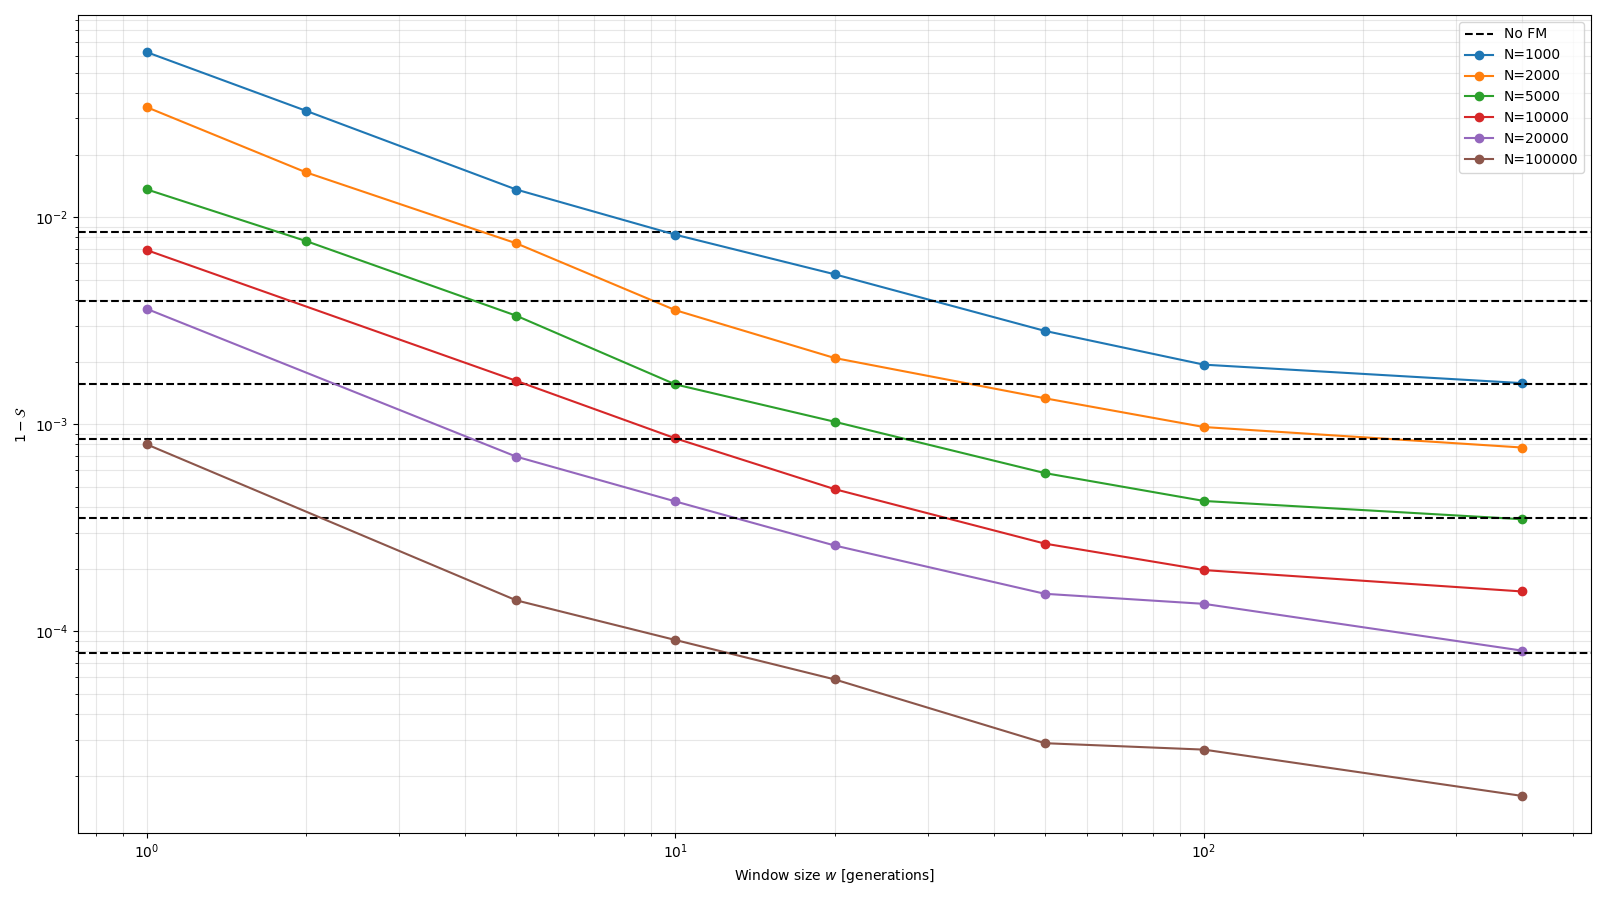
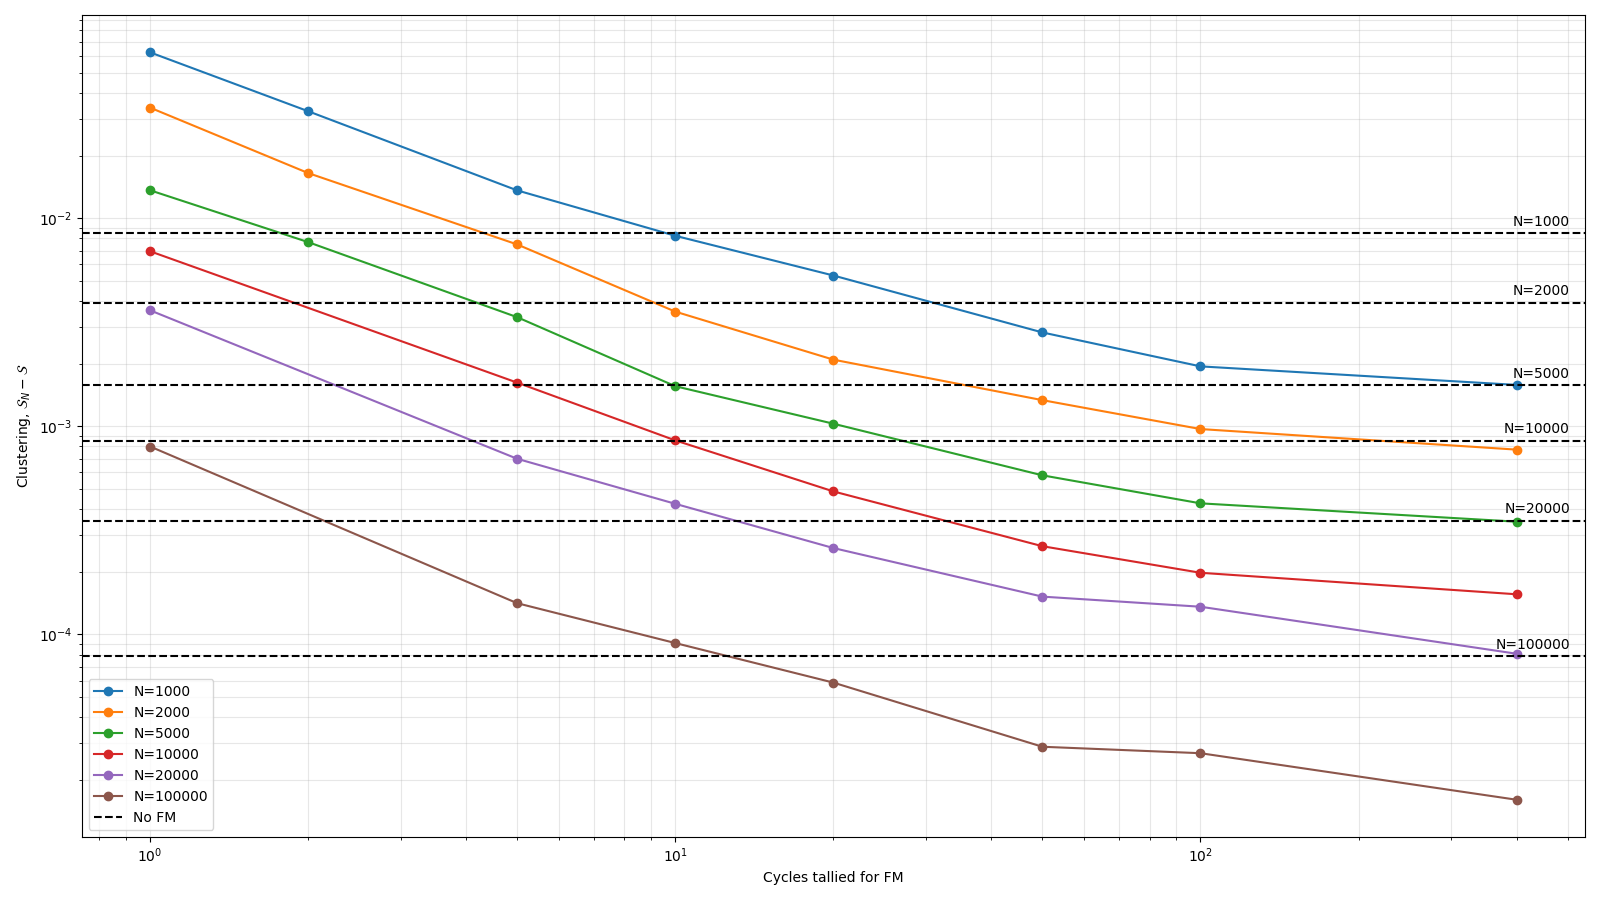
data

diff --git a/entrBins.py b/entrBins.py
@@ -1,0 +1,68 @@
+# all have L100 w50 skip0 noFM5 S100
+
+import numpy as np
+import matplotlib.pyplot as plt
+from scipy.stats import binom
+
+n = [1000, 10000, 100000]
+
+
+b = np.array([2, 3, 4, 6, 8, 10, 15, 20, 30, 60, 100])
+
+
+def SanalyticHom_stable(N, B):
+    k = np.arange(1, N + 1)
+
+    # P(K=k) where K ~ BinomPMF(N, 1/B)
+    probs = binom.pmf(k, N, 1 / B)
+
+    return np.log2(N) - (B / N) * np.sum(probs * k * np.log2(k))
+
+# 6.493253953768844+-0.0003469715959181644
+# 6.567513145454545+-0.00024629629258240136 # 2000
+# 6.6288142894736835+-0.00010668500990982978
+# 6.642292329113924+-2.4781385897995025e-05
+noFM = np.array([
+    6.493253953768844,
+    6.6288142894736835,
+    6.642292329113924
+])
+# 20000
+# 2000n 10000 # 6.576377477777777+-0.0001953708865880469 , 6.5840786636363635+-0.0001315195631534916 , 6.586652693939394+-0.00011226769903014101 , 6.589689091919191+-0.00010218955721084907 , 6.5900224939393945+-0.00010247381086713732 , 6.590621976767676+-0.00010418634246804418 , 6.589436630303031+-0.00011795029981303248 , 6.585733705050505+-0.00014733408617750342 , 6.587726058585859+-0.00013964924629004691 , 6.585860618181818+-0.0001511609137577007, 6.587007182828284+-0.00013716146647794415
+# 2000
+# 400
+FM = np.array([
+ [6.508815697487438, 6.524401924623115, 6.528137327638191, 6.5343513959799, 6.534068005527638, 6.535457009045226, 6.530950553266331, 6.532020628643216, 6.529068927135678, 6.52858673718593, 6.528577428140703], # 6.508815697487438+-0.00028474751152582936 , 6.524401924623115+-0.000177340716752691 , 6.528137327638191+-0.00016634472154071446 , 6.5343513959799+-0.00014738732976177796 , 6.534068005527638+-0.00016086620732319855 , 6.535457009045226+-0.0001554098936850416, 6.530950553266331+-0.00018513351202518248 , 6.532020628643216+-0.00019786625055131526, 6.529068927135678+-0.00020231534344551644 , 6.52858673718593+-0.00020481114604076764, 6.528577428140703+-0.00020286292182194416
+ [6.6305909631578945, 6.631556931578947, 6.632524657894736, 6.632980510526316, 6.632657984210526, 6.632875778947368, 6.632567778947369, 6.632218336842105, 6.632522757894737, 6.632121294736841, 6.632375305263158], # 6.6305909631578945+-8.150871698418442e-05 , 6.631556931578947+-6.553215557788587e-05 , 6.632524657894736+-5.3454259037148136e-05,  6.632980510526316+-5.043937104453655e-05 , 6.632657984210526+-5.428877153654675e-05 , 6.632875778947368+-5.713786968826515e-05 , 6.632567778947369+-6.84024960205559e-05, 6.632218336842105+-9.124044370082666e-05, 6.632522757894737+-8.452428833088229e-05 , 6.632121294736841+-7.379803362084e-05 , 6.632375305263158+-9.723340723222088e-05
+ [6.642592571428572, 6.642662657142856, 6.642805485714287, 6.642757828571429, 6.6426958, 6.642820114285715, 6.6427229428571435, 6.642832942857144, 6.642775371428571, 6.64278982857143, 6.642838885714284] # 6.642592571428572+-1.7747947768686406e-05 ,  6.642662657142856+-1.1902463055423587e-05 , 6.642805485714287+-9.2356355647957e-06, 6.642757828571429+-1.1117597938788657e-05, 6.6426958+-1.5878446701201195e-05, 6.642820114285715+-1.648299724608114e-05, 6.6427229428571435+-1.405183764037338e-05 , 6.642832942857144+-1.381322968337616e-05 , 6.642775371428571+-1.4758522416847112e-05 , 6.64278982857143+-1.3652105803030886e-05 , 6.642838885714284+-3.453860273044393e-05
+])
+
+
+
+
+err_noFM = np.array([SanalyticHom_stable(n[i], 100) - noFM[i] for i in range(len(noFM))])
+err_FM1 = np.array([SanalyticHom_stable(n[0], 100) - FM[0, i] for i in range(len(FM[0, :]))])
+err_FM10 = np.array([SanalyticHom_stable(n[1], 100) - FM[1, i] for i in range(len(FM[1, :]))])
+err_FM100 = np.array([SanalyticHom_stable(n[2], 100) - FM[2, i] for i in range(len(FM[2, :]))])
+
+
+plt.figure(figsize=(16,9))
+
+plt.semilogy(b, err_FM1, 'o-', label='N=1000')
+plt.axhline(err_noFM[0], ls='--', color = 'k', lw = 1.5 , label = 'No FM')
+
+plt.semilogy(b, err_FM10, 'o-', label='N=10000')
+plt.axhline(err_noFM[1], ls='--', color = 'k', lw = 1.5)
+
+plt.loglog(b, err_FM100, 'o-', label='N=100000')
+plt.axhline(err_noFM[2], ls='--', color = 'k', lw = 1.5)
+
+
+plt.xlabel(r'Window size $w$ [cycles]')
+plt.ylabel(r'Clustering, $\mathcal{S}_N - \mathcal{S}$')
+plt.grid(True, which='both', alpha=0.3)
+plt.legend()
+plt.tight_layout()
+plt.show()
+
+

diff --git a/entr2.py b/entr2.py
@@ -48,28 +48,54 @@ w0_100000 = 0.9999211979381444
 
 plt.figure(figsize=(16,9))
 
-plt.axhline(1 - w0_1000, ls='--', color = 'k', lw = 1.5 , label = 'No FM')
 plt.loglog(w, 1 - fm_1000, 'o-', label='N=1000')
 
 plt.loglog(w, 1 - fm_2000, 'o-', label='N=2000')
-plt.axhline(1 - w0_2000, ls='--', color = 'k', lw = 1.5)
 
 plt.loglog(w, 1 - fm_5000, 'o-', label='N=5000')
-plt.axhline(1 - w0_5000, ls='--', color = 'k', lw = 1.5)
 
 plt.loglog(w_10000, 1 - fm_10000, 'o-', label='N=10000')
-plt.axhline(1 - w0_10000, ls='--', color = 'k', lw = 1.5)
 
 plt.loglog(w_20000, 1 - fm_20000, 'o-', label='N=20000')
-plt.axhline(1 - w0_20000, ls='--', color = 'k', lw = 1.5)
 
 plt.loglog(w_100000, 1 - fm_100000, 'o-', label='N=100000')
-plt.axhline(1 - w0_100000, ls='--', color = 'k', lw = 1.5)
 
-plt.xlabel(r'Window size $w$ [cycles]')
-plt.ylabel(r'$1 - \mathcal{S}$')
+ax = plt.gca()
+
+no_fm_values = [
+    (1000,   1 - w0_1000),
+    (2000,   1 - w0_2000),
+    (5000,   1 - w0_5000),
+    (10000,  1 - w0_10000),
+    (20000,  1 - w0_20000),
+    (100000, 1 - w0_100000),
+]
+
+for i, (N, y) in enumerate(no_fm_values):
+    ax.axhline(
+        y,
+        ls="--",
+        color="k",
+        lw=1.5,
+        label="No FM" if i == 0 else None
+    )
+
+    ax.annotate(
+        f"N={N}",
+        xy=(0.99, y),
+        xycoords=("axes fraction", "data"),
+        xytext=(0, 3),                 # 3 points above the line
+        textcoords="offset points",
+        ha="right",
+        va="bottom",
+        fontsize=10,
+        color="black"
+    )
+
+plt.xlabel(r'Cycles tallied for FM')
+plt.ylabel(r'Clustering, $\mathcal{S}_N - \mathcal{S}$')
 plt.grid(True, which='both', alpha=0.3)
-plt.legend()
+plt.legend(loc = 'lower left')
 plt.tight_layout()
 plt.show()
 

diff --git a/entr3.py b/entr3.py
@@ -7,6 +7,11 @@ import matplotlib.pyplot as plt
 a = np.array([1, 2, 3, 4, 5, 6, 7, 8, 9, 10,
               11, 12, 13, 14, 15, 16, 17, 18, 19, 20,
               21, 22, 23, 24, 25, 26, 27, 28])
+
+crossingPerc = np.array([
+    46.335950000000004, 28.1067, 18.555850000000003, 12.72145, 8.86324, 6.225935, 4.390725, 3.1032900000000003, 2.19314, 1.55503, 1.1000949999999998, 0.7793405, 0.552801, 0.3915885, 0.2773455, 0.196184, 0.139378, 0.09807499999999998, 0.0701196, 0.049047749999999994, 0.0347003, 0.02475565, 0.0173914, 0.01218095, 0.008876255000000001, 0.006289275, 0.004518635, 0.0030920550000000007
+])
+
 noFM = np.array([
     0.9999163682092556,
     0.9998986615694166,
@@ -79,7 +84,7 @@ plt.semilogy(a, err_noFM, 'o-', color = 'k', label='No FM')
 plt.semilogy(a, err_FM, 's-', color = 'darkgrey', linestyle = '--', label='With FM')
 
 plt.xlabel('Absorbing region half-length, $a$')
-plt.ylabel(r'$1 - \mathcal{S}$')
+plt.ylabel(r'Clustering, $\mathcal{S}_N - \mathcal{S}$')
 plt.grid(True, which='both', linestyle='--', alpha=0.6)
 plt.legend()
 
@@ -87,11 +92,38 @@ plt.tight_layout()
 plt.show()
 
 
-exit()
+
+
+
 
 plt.figure(figsize=(16,9))
 
-plt.semilogy(a, err_noFM - err_FM, 'o-', label='1 - noFM')
+plt.semilogy(a, crossingPerc/100, 'o-', color = 'k')
+
+plt.xlabel('Absorbing region half-length, $a$')
+plt.ylabel(r'Fraction of neutrons crossing per cycle')
+plt.grid(True, which='both', linestyle='--', alpha=0.6)
+plt.legend()
+
+plt.tight_layout()
+plt.show()
+
+# the eigenvectors of a diagonal matrix is just the basisvectors with eigenvalues on the diagonal
+# therefore any decoupled systems will simply end up with one of the systems being selected as the 'default'
+
+# for the future: change N such that S_noFM is identical while varying a
+
+exit()
+
+
+
+
+
+plt.figure(figsize=(16,9))
+
+plt.plot(crossingPerc, err_noFM - err_FM, 'o-', label='noFM - FM')
+plt.xscale('log')
+plt.yscale('symlog', linthresh=1e-6)  # adjust linthresh to your data
 
 plt.xlabel('Window size $a$')
 plt.ylabel(r'$1 - \mathrm{value}$')
@@ -100,5 +132,7 @@ plt.legend()
 
 plt.tight_layout()
 plt.show()
+
+
 
 

diff --git a/plot.py b/plot.py
@@ -12,13 +12,13 @@ import matplotlib.pyplot as plt
 import re
 import matplotlib as mpl
 from matplotlib.widgets import Slider, Button
-import imageio_ffmpeg
+#import imageio_ffmpeg
 from matplotlib.animation import FuncAnimation, FFMpegWriter, PillowWriter
 from scipy.optimize import root_scalar
 from pathlib import Path
 from scipy.stats import binom
 
-mpl.rcParams["animation.ffmpeg_path"] = imageio_ffmpeg.get_ffmpeg_exe()
+#mpl.rcParams["animation.ffmpeg_path"] = imageio_ffmpeg.get_ffmpeg_exe()
 
 
 # 1,2
@@ -221,23 +221,23 @@ Sigma_s = Sigma_t-Sigma_a
 Sigma_f = Sigma_a
 Sigma_c = Sigma_a
 A = 1.0
-minEntr = 100
-maxFlux = 2499
-Sbins = 2
+minEntr = 50
+maxFlux = 399
+Sbins = 100
 aHalf = 19
-LHalf = 20
-pop = 500
+LHalf = 100
+pop = 100000
 
 readFromFile = False
-isHomg = False
-isFM = False
-isConv = False
-fmBins = 2
-window = 300
+isHomg = True
+isFM = True
+isConv = True
+fmBins = 100
+window = 50
 write = False
-animation = True
+animation = False
 
-file_path_tallies = Path(r"\\wsl$\Ubuntu\home\andijvie\SCONE\InputFiles\popRed.json")
+file_path_tallies = Path(r"\\wsl$\Ubuntu\home\andijvie\SCONE\InputFiles\popRed5.json")
 file_path_source = Path(r"\\wsl$\Ubuntu\home\andijvie\SCONE\InputFiles\Sources")
 script_dir = str(Path(__file__).resolve().parent) + "\\data\\"
 ext = "_N" + str(pop) + "L" + str(LHalf) + "a" + str(aHalf) + ".npy"